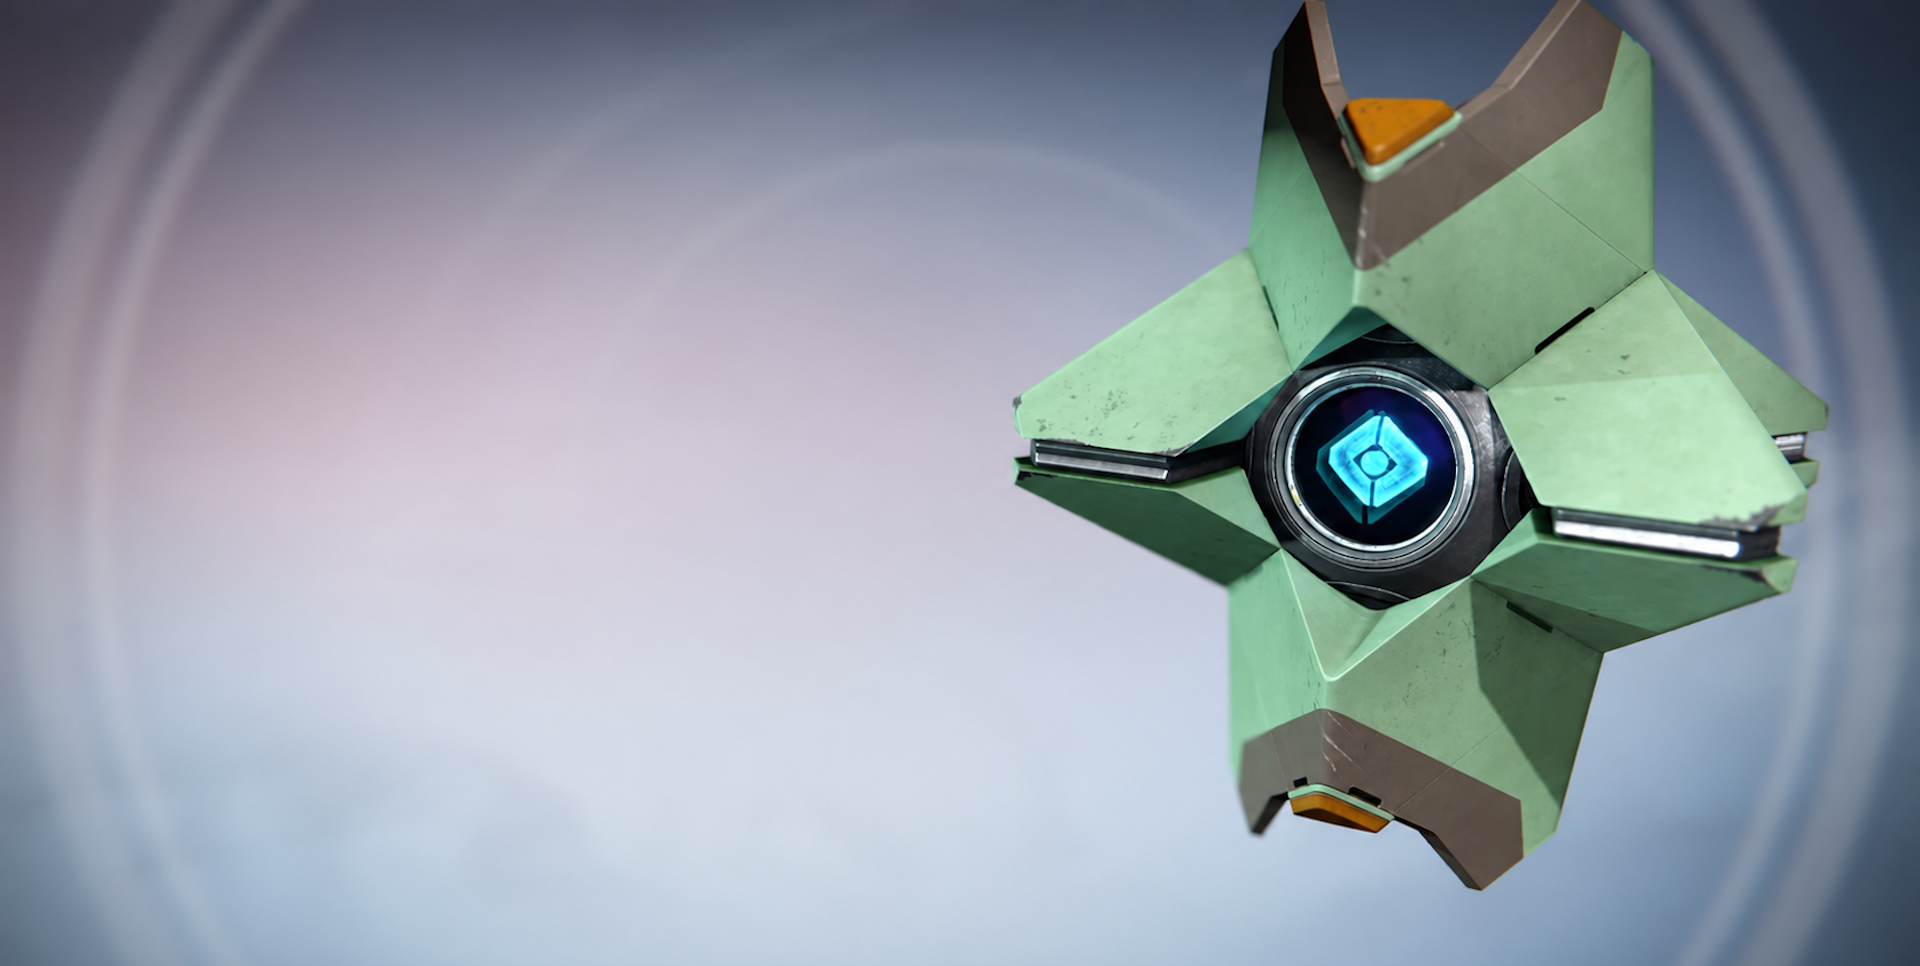
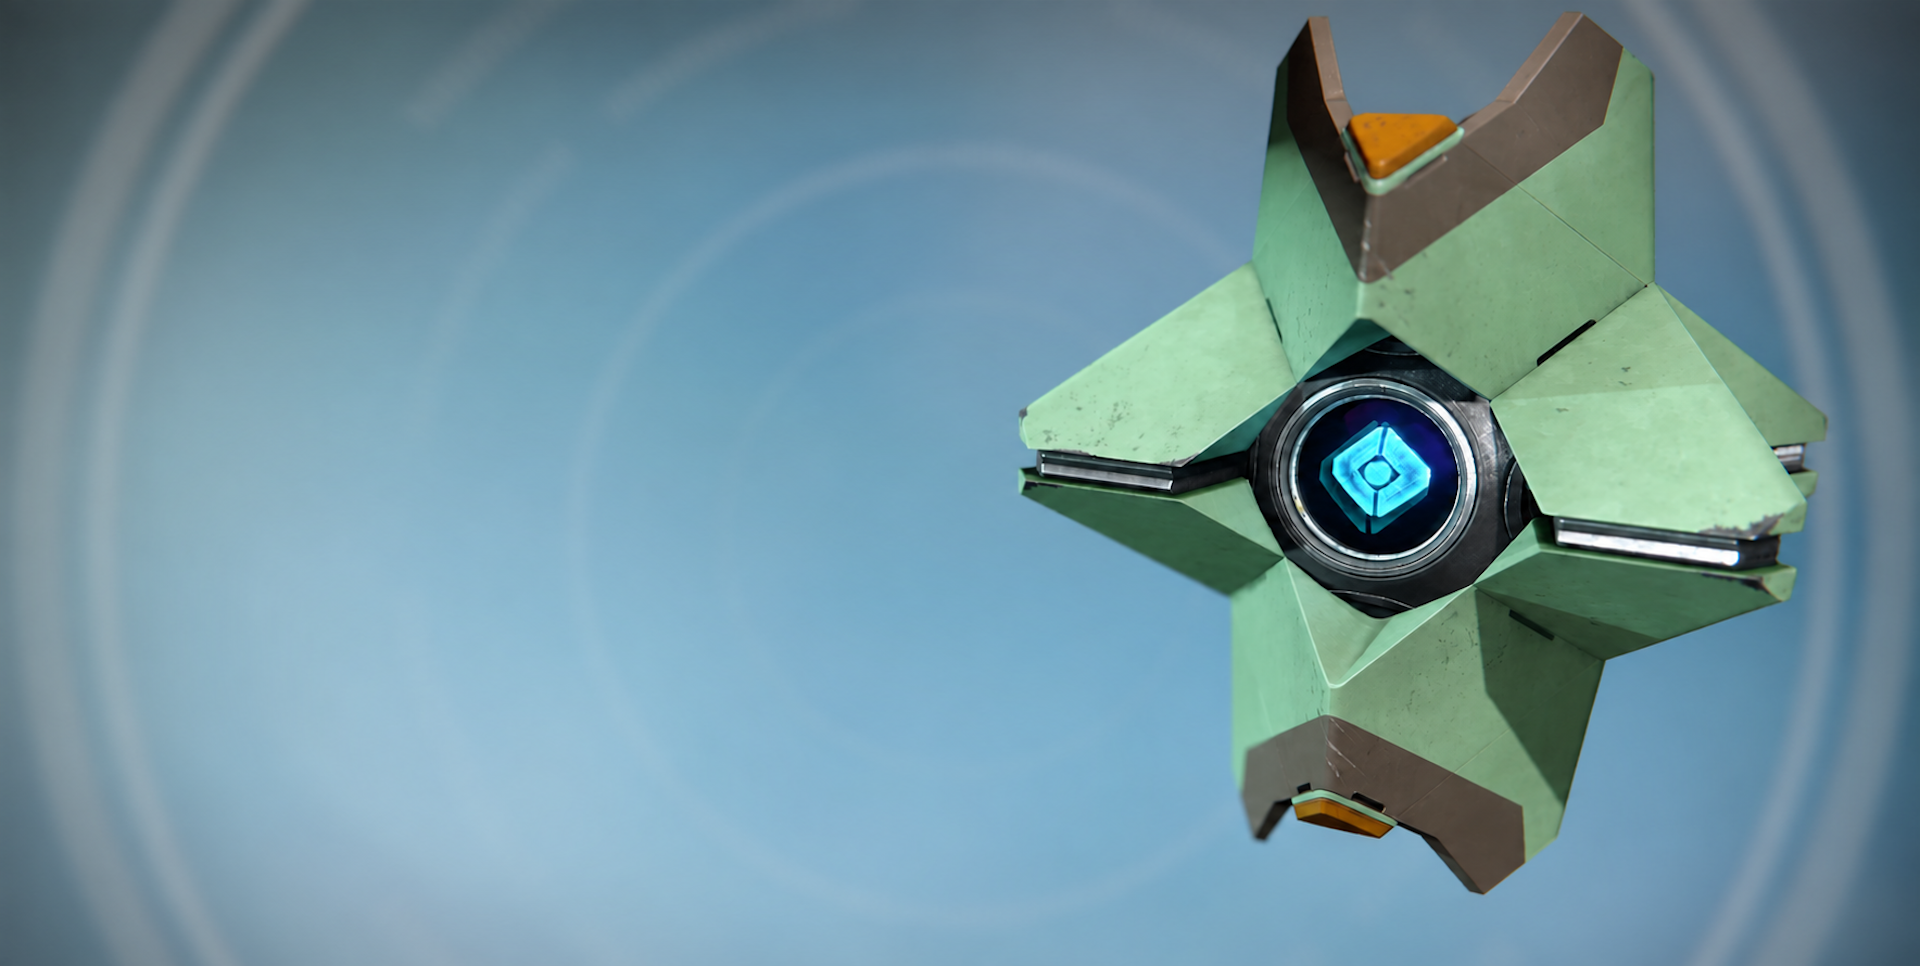
Clean up ghost in-game screenshots, add named ghost shell images. Version bump 0.8.0 -> 0.8.1

diff --git a/config/app.php b/config/app.php
@@ -15,7 +15,7 @@ return [
 
     'name' => env('APP_NAME', 'Laravel'),
 
-    'version' => env('APP_VERSION', '0.8.0'),
+    'version' => env('APP_VERSION', '0.8.1'),
 
     /*
     |--------------------------------------------------------------------------
